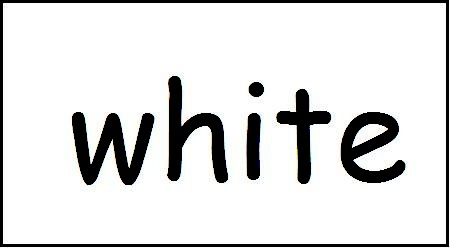
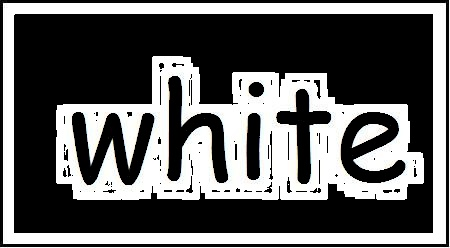
update handler remove bg from image function. updated logic

diff --git a/main.py b/main.py
@@ -44,34 +44,32 @@ def handlerBinaryzation(img):
 
     return binary_image
 
-def handlerRemoveBg(img):
-    threshold = 128
-    mask = img > threshold
-    remove_image = img.copy()
-    remove_image[~mask] = 0
-    return remove_image
+def handlerRemoveBg(color_image, binary_image):
+    mask = np.zeros_like(color_image)
+    mask[binary_image > 0] = color_image[binary_image > 0]
+    return mask
 
 capy_gray_image = handlerGrayscale(image_01)
 capy_binary_image = handlerBinaryzation(capy_gray_image)
-capy_remove_image = handlerRemoveBg(image_01)
+capy_remove_image = handlerRemoveBg(image_01, capy_binary_image)
 cv2.imwrite('capy_binary_image.jpeg', capy_binary_image)
 cv2.imwrite('capy_remove_image.jpeg', capy_remove_image)
 
 shrek_gray_image = handlerGrayscale(image_02)
 shrek_binary_image = handlerBinaryzation(shrek_gray_image)
-shrek_remove_image = handlerRemoveBg(image_02)
+shrek_remove_image = handlerRemoveBg(image_02, shrek_binary_image)
 cv2.imwrite('shrek_binary_image.jpeg', shrek_binary_image)
 cv2.imwrite('shrek_remove_image.jpeg', shrek_remove_image)
 
 text_01_gray_image = handlerGrayscale(image_03)
 text_01_binary_image = handlerBinaryzation(text_01_gray_image)
-text_01_remove_image = handlerRemoveBg(image_03)
+text_01_remove_image = handlerRemoveBg(image_03, text_01_binary_image)
 cv2.imwrite('text_01_binary_image.jpeg', text_01_binary_image)
 cv2.imwrite('text_01_remove_image.jpeg', text_01_remove_image)
 
 text_02_gray_image = handlerGrayscale(image_04)
 text_02_binary_image = handlerBinaryzation(text_02_gray_image)
-text_02_remove_image = handlerRemoveBg(image_04)
+text_02_remove_image = handlerRemoveBg(image_04, text_02_binary_image)
 cv2.imwrite('text_02_binary_image.jpeg', text_02_binary_image)
 cv2.imwrite('text_02_remove_image.jpeg', text_02_remove_image)
 
